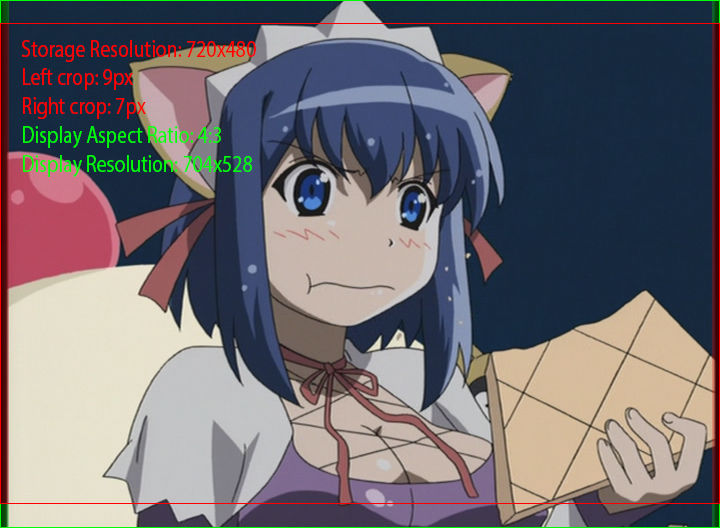
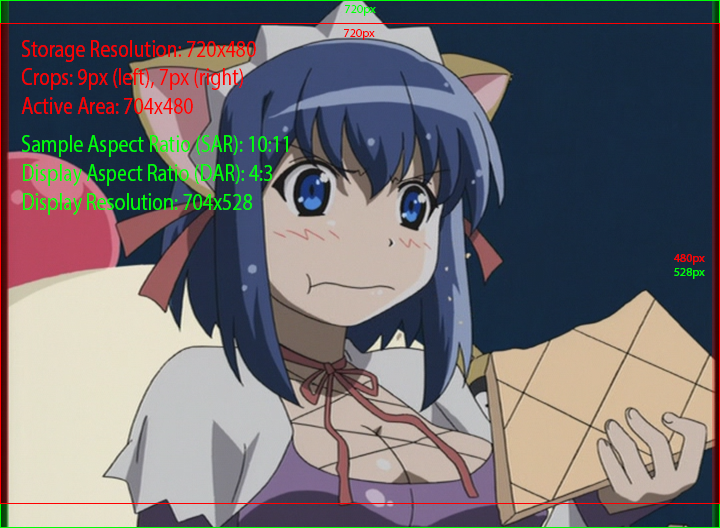
DVD Remux: More minor updates

diff --git a/docs/misc/remux/dvd-remux.md b/docs/misc/remux/dvd-remux.md
@@ -184,6 +184,23 @@ in order of safest to least safe:
                 - `<output_file>`: The path to the output file
 
         !!! warning "Converting PCM audio to FLAC"
+
+            ??? question "Why is this necessary?"
+                DVD PCM audio uses big-endian byte order,
+                while WAV files use little-endian.
+                FFmpeg,
+                at the time of writing,
+                does not automatically handle this,
+                so we need to do it manually ourselves.
+
+                Since PCM is already raw,
+                it makes sense to convert it to FLAC
+                which will maintain the quality
+                while also ensuring proper byte order.
+                You can also opt to convert it to a lossy audio format,
+                such as AAC or Opus,
+                should you not want to use FLAC.
+
             If your DVDISO has PCM audio
             (which you can figure out
             by checking the file
@@ -194,13 +211,13 @@ in order of safest to least safe:
             after `-c copy`:
 
             ```bash
-            -c:a flac -compression_level:a 12
+            -c:a flac -compression_level:a 8
             ```
 
             If you have any tracks that are not PCM,
             you can prevent them from being converted
-            by replacing `-c:a` with `-codec:stream_id`,
-            where `stream_id` is the ID of the track
+            by replacing `-c:a` with `-codec:<stream_id>`,
+            where `<stream_id>` is the ID of the track
             you want to convert.
             You will need to add one of these
             for each track
@@ -216,7 +233,8 @@ in order of safest to least safe:
 
         PgcDemux is a tool
         that allows you to demux a DVDISO
-        into individual "titles" and "menus".
+        into individual titles and menus,
+        as well as select angles.
 
         The download link can be found here:
 
@@ -386,11 +404,9 @@ DVD authors accounted for this
 by keeping important content
 within a smaller [active area](https://en.wikipedia.org/wiki/Overscan#Overscan_amounts).
 When played on a CRT,
-the television's natural stretching
+the television's natural stretching and cropping
 would result in the correct final aspect ratio
 being displayed.
-
-
 Modern displays lack both overscan
 and the automatic stretching of CRTs.
 As a result, DVDs will display incorrectly
@@ -399,17 +415,14 @@ during the remux process.
 
 ### Heuristics
 
-Determining the correct SAR values for a DVD
-requires understanding several standards
-that have evolved over time.
-Different DVD manufacturers and regions
-have had varying approaches,
+SAR values have evolved
+through multiple standards over time,
 making it challenging to identify
 the exact standard used for any given disc.
-
 To help narrow down the correct values,
-below is a reference table of common SAR values
-and their corresponding active areas:
+a reference table of common SAR values
+and their corresponding active areas
+is provided below:
 
 !!! info "Common DVD anamorphic resolution standards"
 
@@ -451,8 +464,15 @@ and their corresponding active areas:
     2. Analyze how the conversion process transformed the video
     3. Adjust your settings to match the original content's intended display
 
+### Determining the correct SAR values
+
 The following methods can be used
-to help determine the correct SAR values:
+to help determine the correct SAR values.
+Ideally,
+you should cross-reference the results
+of as many of these methods
+as possible
+to derive the most accurate SAR values.
 
 !!! example "SAR heuristic methods"
 
@@ -473,7 +493,7 @@ to help determine the correct SAR values:
         These dark borders are intentionally added
         to mark the boundaries of the active picture area.
 
-        ![Example frame from Nurse Witch Komugi](./img/sar/faded-columns-method.png)
+        ![Example frame from Nurse Witch Komugi Magikarte](./img/sar/faded-columns-method.png)
 
         To calculate the active area width:
 
@@ -492,16 +512,16 @@ to help determine the correct SAR values:
         Once you know the active area
         and display aspect ratio (DAR),
         you can determine the correct SAR
-        from the reference table above.
+        using the reference table above.
 
         In this example frame:
 
-        - Active area: 704x480
+        - Active area: 704x480 (crop 9px left, 7px right)
         - DAR: 4:3
         - Therefore SAR: 10:11
         - Final display resolution: 704x528
 
-        ![Example frame from Nurse Witch Komugi](./img/sar/faded-columns-stretched.png)
+        ![Example frame from Nurse Witch Komugi Magikarte with all the relevant information](./img/sar/faded-columns-stretched.png)
 
     === "Circle method"
 
